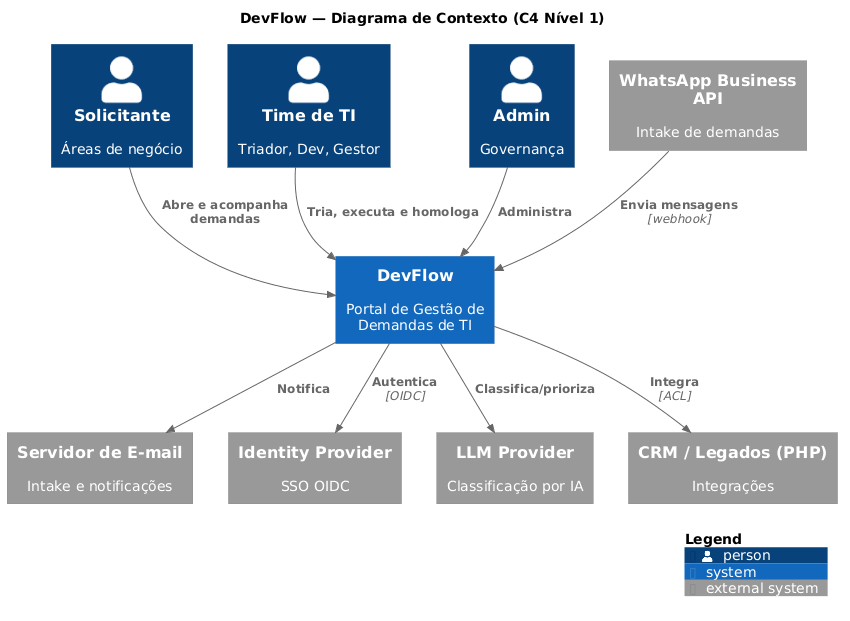
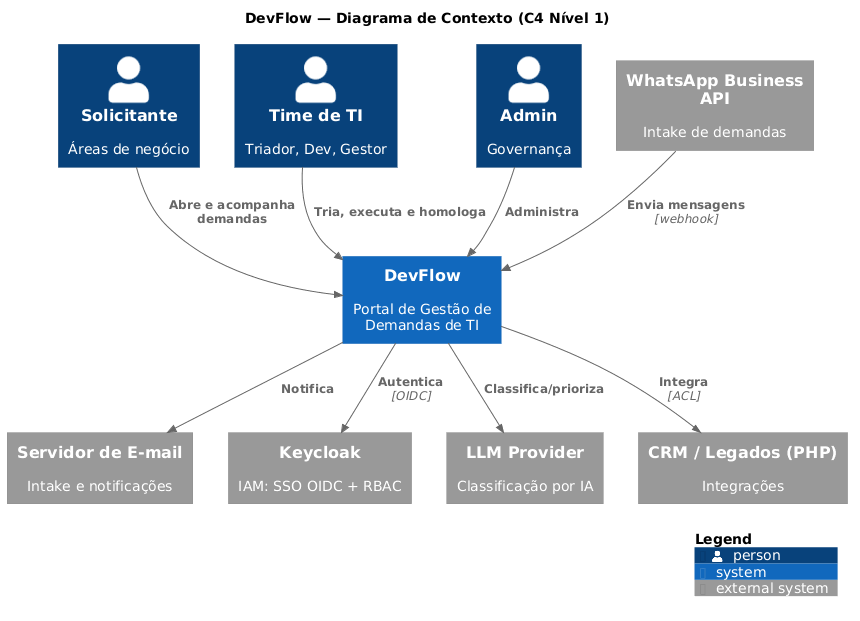
feat: adiciona Keycloak (IAM: SSO+RBAC) e Terraform (IaC, Pulumi como alternativa); ADR-005 e racional GitHub Actions vs CodePipeline

diff --git a/docs/02-arquitetura.md b/docs/02-arquitetura.md
@@ -19,7 +19,7 @@ C4Context
     System(devflow, "DevFlow", "Portal de Gestão de Demandas de TI")
     System_Ext(whatsapp, "WhatsApp Business API", "Intake")
     System_Ext(email, "E-mail", "Intake e notificações")
-    System_Ext(idp, "Identity Provider", "SSO OIDC")
+    System_Ext(idp, "Keycloak", "IAM: SSO OIDC + RBAC")
     System_Ext(llm, "LLM Provider", "Classificação por IA")
     System_Ext(legado, "CRM / Legados (PHP)", "Integrações")
     Rel(solicitante, devflow, "Abre e acompanha")
@@ -88,10 +88,11 @@ microserviço — trocando a chamada in-process por mensageria.
 | DB principal | **PostgreSQL 16** | ACID no workflow; JSONB para flexibilidade; full-text nativo; RLS |
 | Cache + Fila | **Redis + BullMQ** | Cache de leitura; jobs assíncronos resilientes |
 | Object Storage | **S3 / MinIO** | Anexos fora do RDBMS; URLs pré-assinadas |
-| Auth | **JWT + Refresh + OIDC** | Stateless (escala horizontal); SSO corporativo |
+| Identidade & Auth | **Keycloak** (IAM) + JWT/OIDC | SSO, MFA e **RBAC centralizados** num IdP open source; NestJS valida o token e aplica os papéis nos guards. Stateless → escala horizontal |
 | IA | **LLM via API** | Classificação/priorização no intake |
 | Infra | **Docker + AWS** (região São Paulo) | Serviços gerenciados (RDS, ElastiCache, S3); dado no Brasil (LGPD); portável via Docker/12-factor (sem lock-in forte) |
 | CI/CD | **GitHub Actions** | Código no GitHub; alinhado à direção AI-native da Microsoft (Azure DevOps segue forte em enterprise) |
+| IaC | **Terraform** | Infra versionada e reproduzível; multi-cloud (sem lock-in). **Pulumi** como alternativa viável (IaC em TypeScript) |
 | ORM | **Prisma** | Type-safe, migrations versionadas |
 
 ## Fluxo de criação de demanda
@@ -145,6 +146,14 @@ mensagem, classifica e cria a demanda já priorizada no backlog.
 - **Decisão:** Notificações, SLA e IA em workers via BullMQ/Redis.
 - **Porquê:** Não bloquear o request; resiliência (retry); desacoplamento.
 
-### ADR-004 — Auth stateless (JWT) + SSO OIDC
-- **Decisão:** JWT curto + refresh + SSO corporativo.
-- **Porquê:** Escala horizontal sem sessão pegajosa; reaproveita identidade corporativa.
+### ADR-004 — Keycloak (IAM) + Auth stateless (JWT/OIDC)
+- **Decisão:** Keycloak como Identity Provider (SSO OIDC, MFA, RBAC centralizado); JWT curto + refresh; NestJS valida o token e aplica papéis nos guards (CASL para autorização fina).
+- **Alternativa rejeitada:** Implementar autenticação do zero — área crítica e propensa a falha, sem ganho.
+- **Porquê:** Não reinventar auth; centralizar identidade e papéis; stateless escala horizontal.
+
+### ADR-005 — CI/CD em GitHub Actions e IaC em Terraform
+- **Contexto:** Código no GitHub; infra na AWS.
+- **Decisão:** **GitHub Actions** para CI/CD; **Terraform** para IaC.
+- **Alternativas:** AWS CodePipeline/CodeBuild (rejeitado: pior DX, mais acoplado — a própria AWS fechou o CodeCommit para novos clientes em 2024); CloudFormation/CDK (rejeitado: lock-in AWS); **Pulumi** (IaC em TypeScript) — mantido como alternativa, não padrão, para não fragmentar a stack de IaC.
+- **Porquê:** Actions integra nativo ao repositório (gates no PR) e faz deploy na AWS via OIDC; Terraform é padrão de mercado e multi-cloud, coerente com evitar lock-in.
+- **Nota:** se a empresa usa Azure DevOps/GitLab, a esteira se adapta — mudam as ferramentas, não os princípios (gates, IaC, rollback).

diff --git a/docs/05-devops-cicd.md b/docs/05-devops-cicd.md
@@ -59,8 +59,23 @@ flowchart TD
 | homologação | espelho de produção, E2E + aceite | automático no merge `develop` |
 | produção | usuários reais | manual aprovado a partir de `main` |
 
+## Escolha de ferramentas (CI/CD e IaC)
+
+**Por que GitHub Actions e não a esteira nativa da AWS (CodePipeline)?** O código está no GitHub, então
+o Actions integra nativo — roda os gates no próprio Pull Request, com review e status check onde o time
+já trabalha, e faz deploy na AWS via **OIDC** (sem chave estática). A própria AWS **fechou o CodeCommit
+para novos clientes em 2024**, sinalizando o fluxo "git no GitHub, deploy na AWS". O CodePipeline seria
+defensável apenas se a empresa exigisse tudo dentro da AWS por isolamento/compliance.
+
+**IaC com Terraform.** A infraestrutura (rede, RDS Postgres, ElastiCache Redis, ECS/Fargate, S3) é
+declarada em código versionado com **Terraform** — padrão de mercado e **multi-cloud** (coerente com
+evitar lock-in). O pipeline roda `terraform plan` (revisado no PR) e `apply`. **Pulumi** é uma alternativa
+viável (IaC em TypeScript, mesma linguagem do projeto) — fica como menção honrosa, não como padrão, para
+não fragmentar a stack. Cuidado operacional: **state remoto** (S3) com **lock** (DynamoDB) contra drift e
+concorrência.
+
 ## IaC e observabilidade
 
-- **Docker** multi-stage; **Terraform/OpenTofu** para provisionar cloud; **secrets** em cofre (12-Factor).
+- **Docker** multi-stage; **Terraform** provisiona a cloud; **secrets** em cofre (12-Factor).
 - **Logs** (Pino → Loki), **métricas** (Prometheus + Grafana), **tracing** (OpenTelemetry),
   **erros** (Sentry), **alertas** (Grafana → Slack/WhatsApp).

diff --git a/README.md b/README.md
@@ -31,9 +31,11 @@ ciclo de entrega, com governança e métricas.
 Front-end:  Next.js 16 (React, SSR/RSC)
 Back-end:   NestJS (Node/TypeScript) — monólito modular por bounded context
 Dados:      PostgreSQL 16  +  Redis (cache/fila)
+Identidade: Keycloak (IAM) — SSO OIDC + MFA + RBAC centralizado
 Assíncrono: BullMQ (notificações, SLA, intake)
 Inteligência: intake de demandas via WhatsApp Business API + classificação/priorização por LLM
-Infra:      Docker + AWS (região SP → dado no Brasil, LGPD), CI/CD com GitHub Actions + quality gates
+Infra:      Docker + AWS (região SP → dado no Brasil, LGPD); IaC Terraform
+CI/CD:      GitHub Actions + quality gates
 ```
 
 ## Diagrama de arquitetura (C4 — Contexto)
@@ -46,7 +48,7 @@ C4Context
     System(devflow, "DevFlow", "Portal de Gestão de Demandas de TI")
     System_Ext(whatsapp, "WhatsApp Business API", "Intake de demandas")
     System_Ext(llm, "LLM Provider", "Classificação por IA")
-    System_Ext(idp, "Identity Provider", "SSO OIDC")
+    System_Ext(idp, "Keycloak", "IAM: SSO OIDC + RBAC")
     Rel(solicitante, devflow, "Abre e acompanha demandas")
     Rel(timeTI, devflow, "Tria, executa e homologa")
     Rel(whatsapp, devflow, "Envia mensagens", "webhook")

diff --git a/slides/devflow.md b/slides/devflow.md
@@ -54,9 +54,10 @@ Operações) abrem solicitações para TI e acompanham todo o ciclo — com gove
 | Front-end | **Next.js 16** (React, SSR/RSC) |
 | Back-end | **NestJS** — monólito modular por bounded context |
 | Dados | **PostgreSQL 16** + **Redis** (cache/fila) |
+| Identidade | **Keycloak** (IAM) — SSO OIDC + RBAC |
 | Assíncrono | **BullMQ** (notificações, SLA, intake) |
 | Inteligência | **WhatsApp Business API** + **LLM** (classifica/prioriza) |
-| Infra | **Docker** + **AWS** (região SP), CI/CD com **GitHub Actions** |
+| Infra | **Docker** + **AWS** (SP) · IaC **Terraform** · CI/CD **GitHub Actions** |
 
 ---
 
@@ -203,7 +204,7 @@ Controller fino · DTO valida na borda · DI (testável) · domínio rico · efe
 
 # 6. Segurança e LGPD
 
-- **AuthN:** JWT + Refresh + **SSO OIDC** + MFA para perfis privilegiados
+- **AuthN:** **Keycloak** (IAM) — SSO OIDC + MFA + JWT; identidade e papéis centralizados
 - **AuthZ:** RBAC com guards + Row-Level Security
 - **Cripto:** TLS 1.3 (trânsito) + AES-256 (repouso) + Argon2id (senhas)
 - **Auditoria:** trilha append-only e imutável

diff --git a/docs/06-seguranca.md b/docs/06-seguranca.md
@@ -5,7 +5,7 @@ Defesa em camadas cobrindo autenticação, autorização, criptografia, auditori
 ## Autenticação (AuthN)
 
 - **JWT** curto (15 min) + **refresh token** rotativo (httpOnly, secure).
-- **SSO corporativo via OIDC** (Google/Microsoft).
+- **SSO corporativo via OIDC**, provido pelo **Keycloak** (IAM open source) — emite o JWT, federa Google/Microsoft e centraliza MFA e papéis (RBAC). O NestJS valida o token e aplica os papéis nos guards.
 - Senha com hash **Argon2id**; política de complexidade.
 - **MFA** para perfis privilegiados (Admin, Aprovador).
 - **Rate limiting** + bloqueio progressivo (anti brute-force).